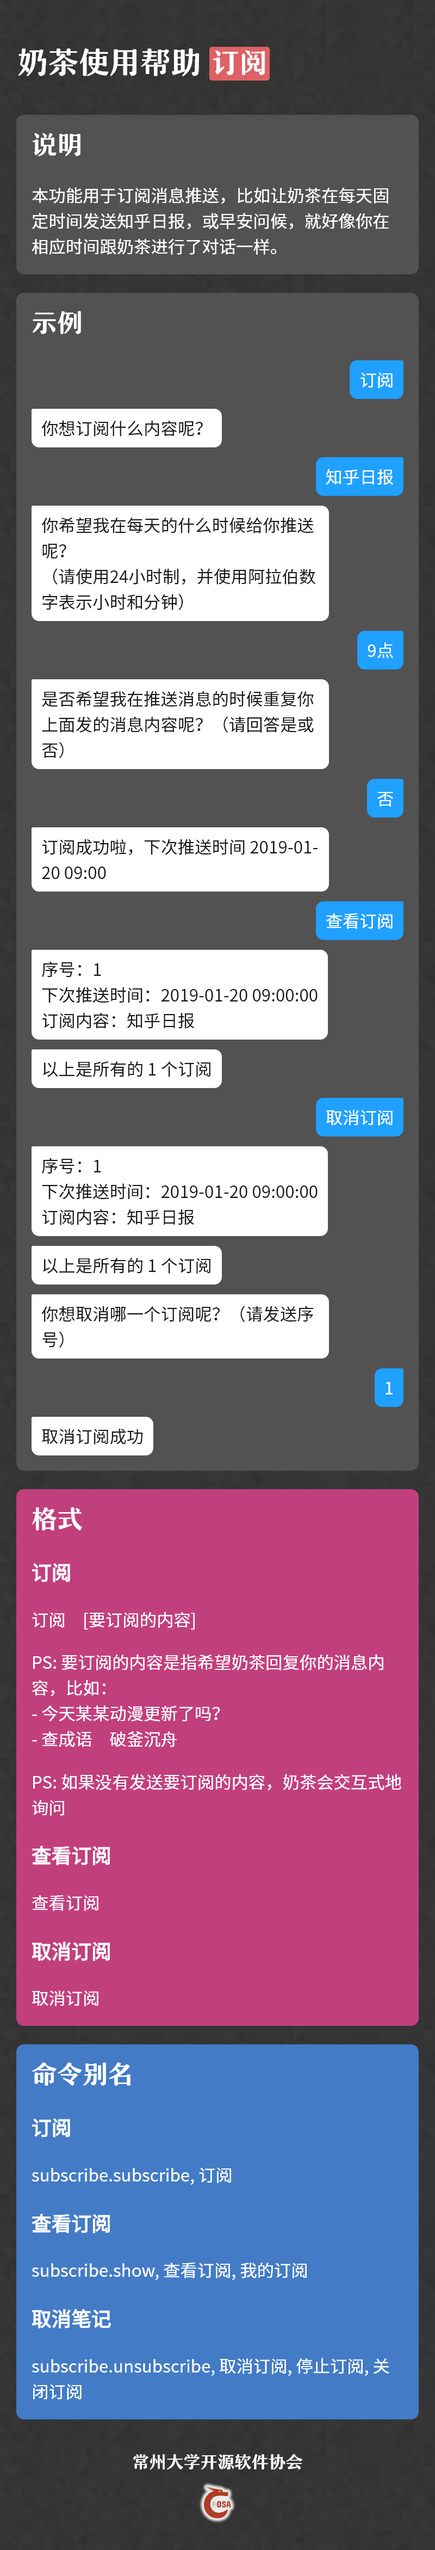
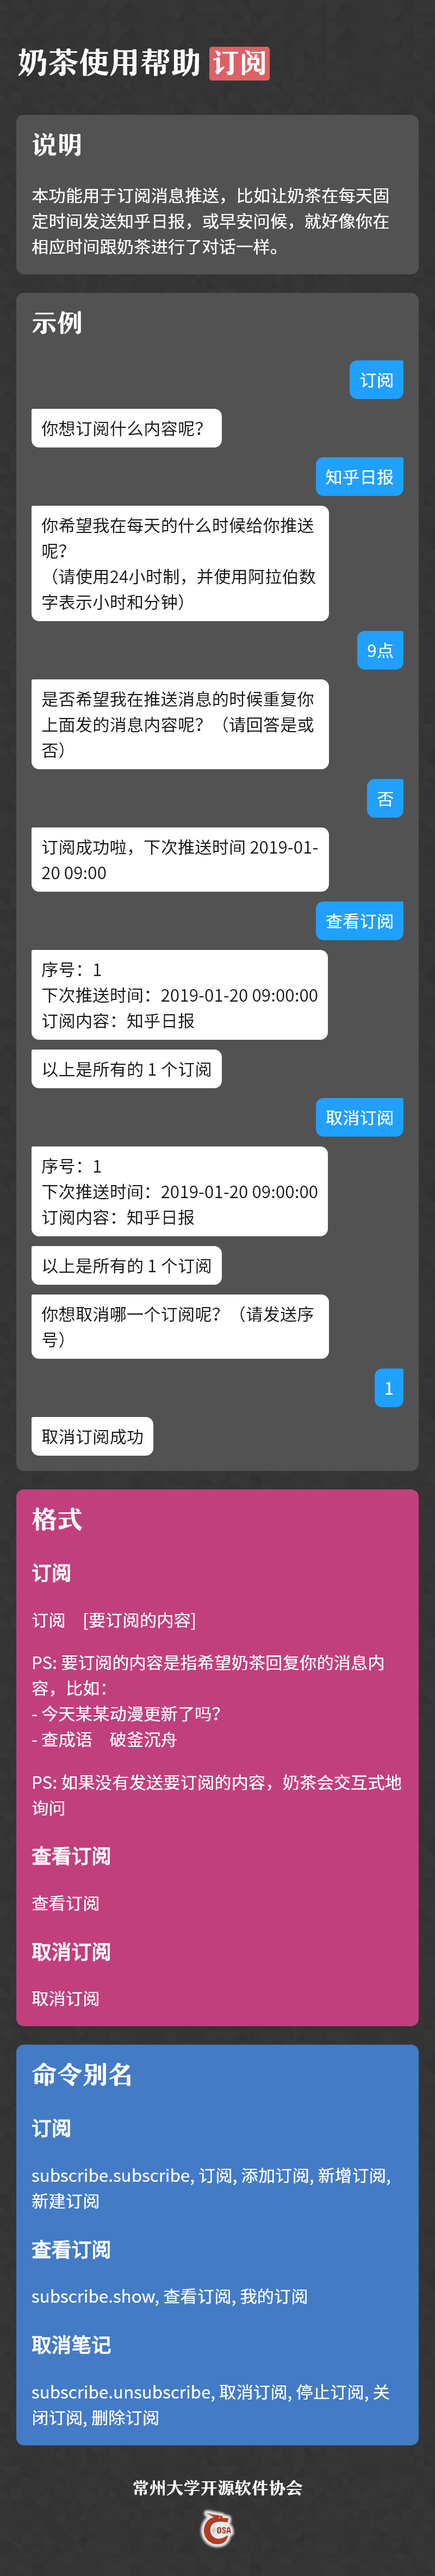
更新使用帮助

diff --git a/manual/天气.html b/manual/天气.html
@@ -1,0 +1,77 @@
+<h1>天气</h1>
+
+<section>
+  <h2>说明</h2>
+  <p>
+    本功能用于查询天气。
+  </p>
+</section>
+
+<section>
+  <h2>示例</h2>
+  <div class="bubble-wrapper right">
+    <div class="bubble">
+      <p>
+        常州天气怎么样
+      </p>
+    </div>
+  </div>
+  <div class="bubble-wrapper left">
+    <div class="bubble">
+      <p>
+        江苏常州<br>
+        <br>
+        现在天气多云，气温 3 ℃，体感温度 0 ℃，能见度 16 km，空气湿度 78%，东南风 2 级。<br>
+        <br>
+        明天（2019-02-02）白天天气多云，晚上天气小雨，气温 3~11 ℃，能见度 20 km，空气湿度 79%，北风 1-2 级，降水概率 11%。<br>
+        <br>
+        后天（2019-02-03）白天天气小雨，晚上天气阴，气温 3~8 ℃，能见度 16 km，空气湿度 92%，北风 1-2 级，降水概率 55%。
+      </p>
+    </div>
+  </div>
+  <div class="bubble-wrapper right">
+    <div class="bubble">
+      <p>
+        天气 北京
+      </p>
+    </div>
+  </div>
+  <div class="bubble-wrapper left">
+    <div class="bubble">
+      <p>
+        北京<br>
+        <br>
+        现在天气晴，气温 -3 ℃，体感温度 -6 ℃，能见度 10 km，空气湿度 28%，东风 1 级。<br>
+        <br>
+        明天（2019-02-02）白天天气多云，晚上天气多云，气温 -4~3 ℃，能见度 20 km，空气湿度 20%，无持续风向 1-2 级，降水概率 64%。<br>
+        <br>
+        后天（2019-02-03）白天天气多云，晚上天气晴，气温 -7~9 ℃，能见度 20 km，空气湿度 20%，西北风 3-4 级，降水概率 0%。
+      </p>
+    </div>
+  </div>
+</section>
+
+<section class="bg-color-1">
+  <h2>格式</h2>
+  <p>
+    天气　[要查询的城市]
+  </p>
+  <p>PS: 中括号部分不填则默认交互式地询问</p>
+</section>
+
+<section class="bg-color-2">
+  <h2>命令别名</h2>
+  <p>
+    weather, 天气, 天气预报, 查天气
+  </p>
+</section>
+
+<section class="bg-color-3">
+  <h2>触发机制</h2>
+  <p>
+    通过上述格式或关键词「天气」可以触发本功能。
+  </p>
+</section>
+
+<link rel="stylesheet" href="css/style.css">
+<script src="js/genpage.js"></script>

diff --git a/manual/订阅.html b/manual/订阅.html
@@ -167,7 +167,7 @@
 
   <h3>订阅</h3>
   <p>
-    subscribe.subscribe, 订阅
+    subscribe.subscribe, 订阅, 添加订阅, 新增订阅, 新建订阅
   </p>
 
   <h3>查看订阅</h3>
@@ -177,7 +177,7 @@
 
   <h3>取消笔记</h3>
   <p>
-    subscribe.unsubscribe, 取消订阅, 停止订阅, 关闭订阅
+    subscribe.unsubscribe, 取消订阅, 停止订阅, 关闭订阅, 删除订阅
   </p>
 </section>
 

diff --git a/manual/index.html b/manual/index.html
@@ -39,6 +39,7 @@
     签到 <span class="author">by 储成龙</span><br>
     点歌 <span class="author">by 钱宇超</span><br>
     airAnime <span class="author">by 钱宇超</span><br>
+    天气 <span class="author">by 钱宇超</span><br>
   </p>
 </section>
 
